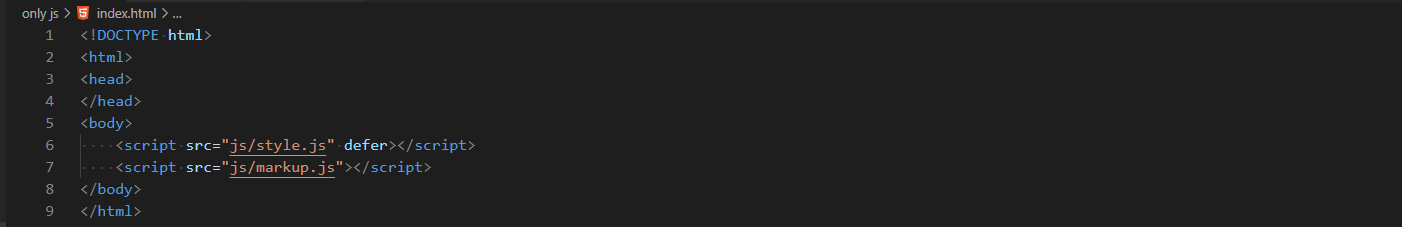
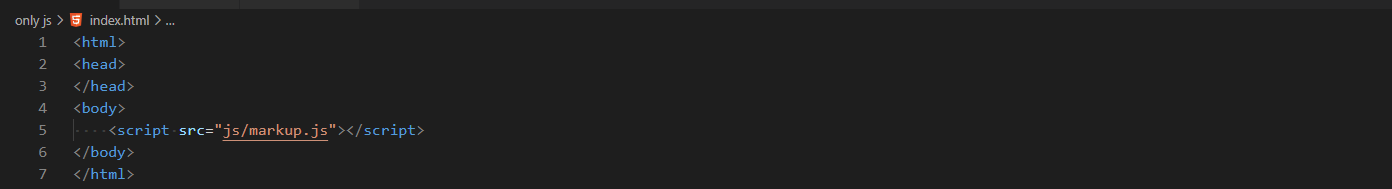
Add files via upload

diff --git a/js/markup.js b/js/markup.js
@@ -1,6 +1,14 @@
 let body = document.querySelector('body')
 body.className = 'body'
 
+let src = document.createAttribute('src')
+let defer = document.createAttribute('defer')
+let script = document.createElement('script')
+src.value = "js/style.js"
+script.setAttributeNode(src.cloneNode(true))
+script.setAttributeNode(defer.cloneNode(true))
+body.appendChild(script)
+
 let head = document.querySelector('head')
 
 let metaCharset = document.createElement('meta')
@@ -86,7 +94,6 @@ htmlContent.appendChild(htmlTitle)
 htmlTitle.textContent = 'HTML'
 htmlTitle.className = ('html-title')
 
-let src = document.createAttribute('src')
 let maxWidth = document.createAttribute('max-width')
 let maxHeight = document.createAttribute('max-height')
 let alt = document.createAttribute('alt')
@@ -96,7 +103,7 @@ htmlContent.appendChild(htmlPng)
 htmlPng.className = ('html-png')
 src.value = "assets/html.png"
 maxWidth.value = "1400px"
-maxHeight.value = "223px"
+maxHeight.value = "189px"
 alt.value = "html"
 htmlPng.setAttributeNode(src.cloneNode(true))
 htmlPng.setAttributeNode(maxWidth.cloneNode(true))

diff --git a/index.html b/index.html
@@ -1,9 +1,7 @@
-<!DOCTYPE html>
 <html>
 <head>
 </head>
 <body>
-    <script src="js/style.js" defer></script>
     <script src="js/markup.js"></script>
 </body>
 </html>
